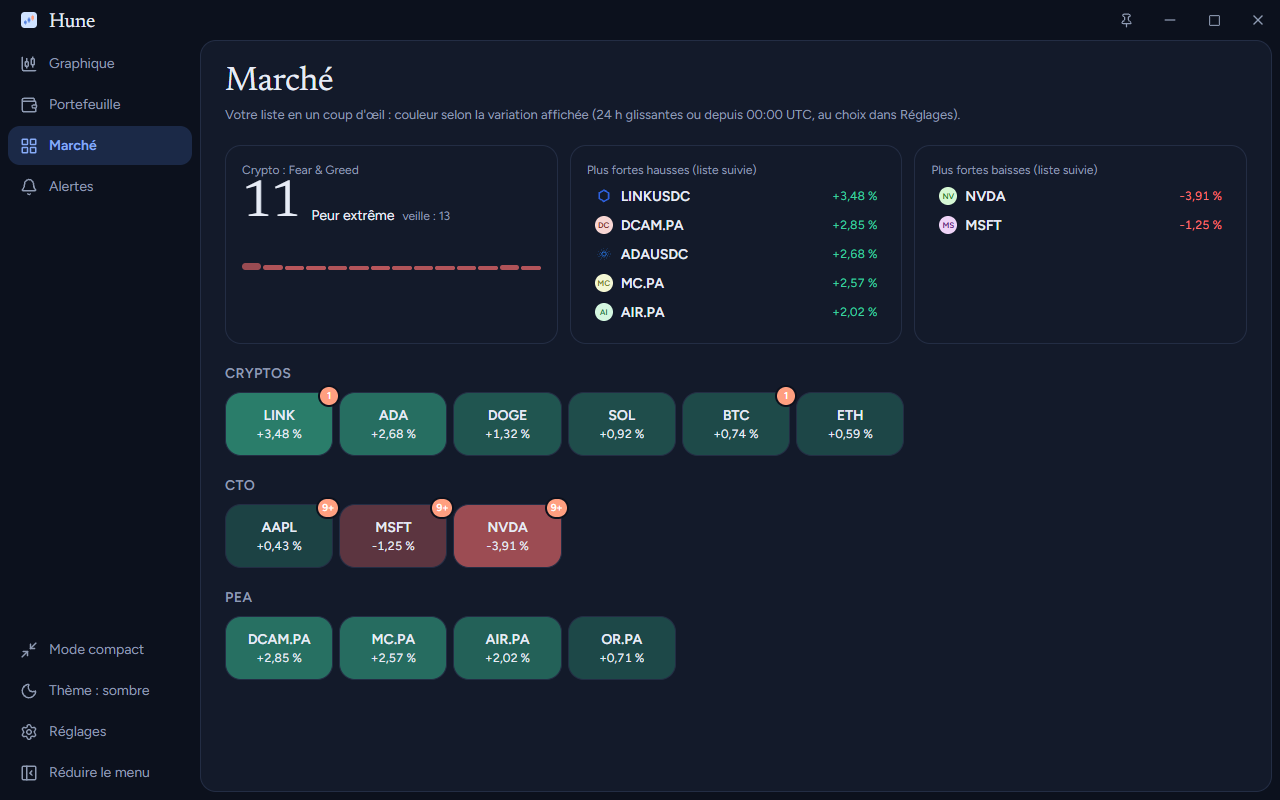
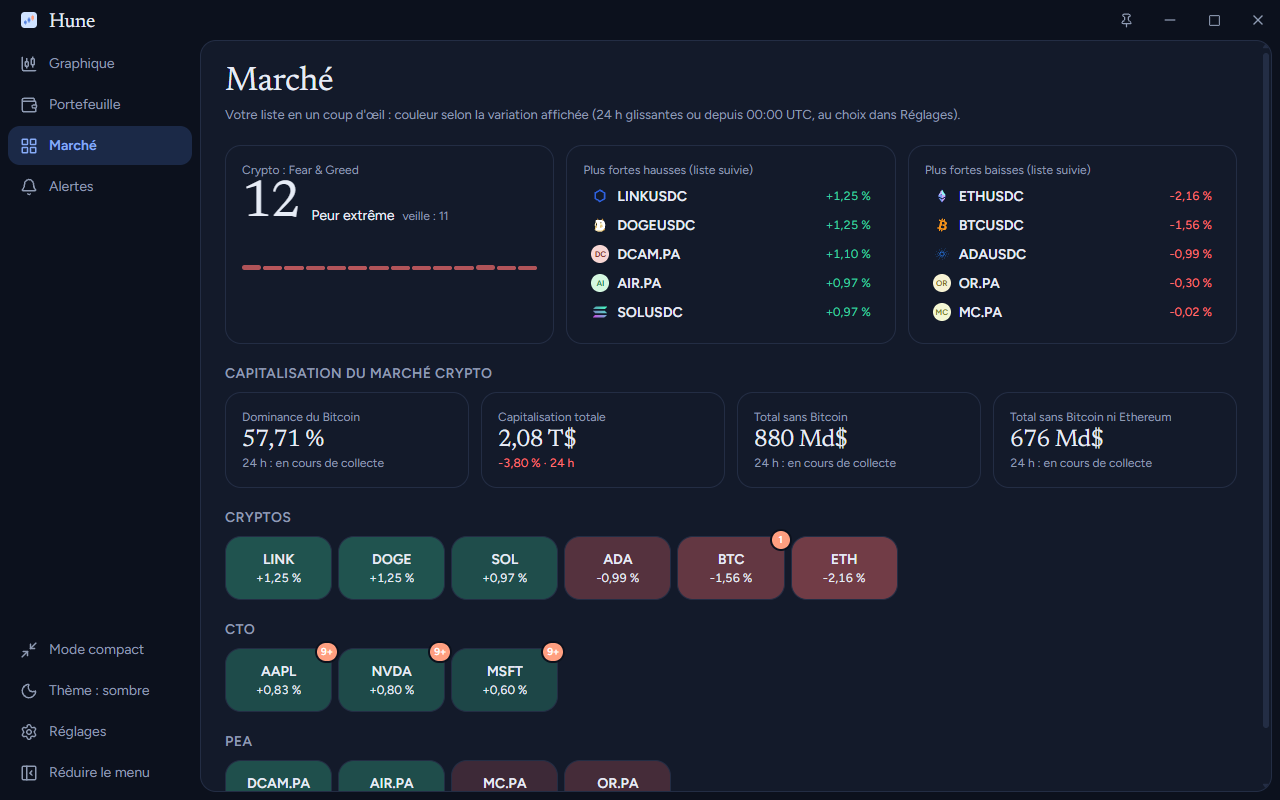
0.15.0 : capitalisation du marche crypto (dominance BTC, TOTAL, TOTAL2, TOTAL3)

diff --git a/src/capitalisation-marche.tsx b/src/capitalisation-marche.tsx
@@ -1,0 +1,103 @@
+import { useEffect, useRef, useState } from "react";
+import { ajouterPoint, ecrireHistorique, lireHistorique, valeurIlYa, type PointCapitalisation } from "./capitalisation-historique";
+import { chargerCapitalisation, type Capitalisation } from "./donnees/capitalisation";
+import { formaterPct } from "./format";
+import { MiniCourbe } from "./mini-courbe";
+
+const fr = (v: number, decimales: number) => v.toLocaleString("fr-FR", { minimumFractionDigits: decimales, maximumFractionDigits: decimales });
+
+/** Gros montant en dollars : « 2,08 T$ » (billions français) ou « 880 Md$ ». */
+export function formaterGrosMontant(v: number): string {
+  return v >= 1e12 ? `${fr(v / 1e12, 2)} T$` : `${fr(v / 1e9, v >= 1e11 ? 0 : 1)} Md$`;
+}
+
+/** Capitalisation du marché crypto, rafraîchie toutes les 5 minutes, et son historique local. */
+function useCapitalisation() {
+  const [capitalisation, setCapitalisation] = useState<Capitalisation | null>(null);
+  const [historique, setHistorique] = useState<PointCapitalisation[]>([]);
+  const [erreur, setErreur] = useState<string | null>(null);
+  const histRef = useRef<PointCapitalisation[]>([]);
+
+  useEffect(() => {
+    let actif = true;
+    void lireHistorique().then((h) => {
+      if (!actif) return;
+      histRef.current = h;
+      setHistorique(h);
+    });
+    const charger = async () => {
+      try {
+        const c = await chargerCapitalisation();
+        if (!actif) return;
+        setCapitalisation(c);
+        setErreur(null);
+        const suivant = ajouterPoint(histRef.current, c, Date.now());
+        if (suivant !== histRef.current) {
+          histRef.current = suivant;
+          setHistorique(suivant);
+          void ecrireHistorique(suivant).catch(() => undefined);
+        }
+      } catch (e) {
+        if (actif) setErreur(e instanceof Error ? e.message : String(e));
+      }
+    };
+    void charger();
+    const t = setInterval(() => void charger(), 5 * 60_000);
+    return () => {
+      actif = false;
+      clearInterval(t);
+    };
+  }, []);
+  return { capitalisation, historique, erreur };
+}
+
+interface Carte {
+  titre: string;
+  valeur: string;
+  aide: string;
+  /** Variation sur 24 h en % (ou en points pour la dominance). */
+  variation: number | null;
+  points: boolean;
+  courbe: number[];
+}
+
+/** Cartes « Capitalisation du marché crypto » de l'écran Marché : dominance du Bitcoin, total, sans Bitcoin, sans Bitcoin ni Ethereum. */
+export function CapitalisationMarche() {
+  const { capitalisation: c, historique, erreur } = useCapitalisation();
+  if (!c) return erreur ? <p className="m-0 text-xs text-doux">Capitalisation du marché crypto indisponible ({erreur}).</p> : null;
+  const maintenant = Date.now();
+  const J = 24 * 3600_000;
+  const varRel = (cle: "total" | "total2" | "total3", actuel: number) => {
+    const avant = valeurIlYa(historique, cle, maintenant, J);
+    return avant ? (actuel / avant - 1) * 100 : cle === "total" ? c.variation24h : null;
+  };
+  const dominanceAvant = valeurIlYa(historique, "dominanceBtc", maintenant, J);
+  const serie = (cle: "total" | "total2" | "total3" | "dominanceBtc") => historique.map((p) => p[cle]);
+  const cartes: Carte[] = [
+    { titre: "Dominance du Bitcoin", valeur: `${fr(c.dominanceBtc, 2)} %`, aide: "Part du Bitcoin dans la capitalisation totale des cryptos (Ethereum : " + fr(c.dominanceEth, 2) + " %). Variation en points sur 24 h.", variation: dominanceAvant != null ? c.dominanceBtc - dominanceAvant : null, points: true, courbe: serie("dominanceBtc") },
+    { titre: "Capitalisation totale", valeur: formaterGrosMontant(c.total), aide: "Valeur de toutes les cryptos réunies (TOTAL).", variation: varRel("total", c.total), points: false, courbe: serie("total") },
+    { titre: "Total sans Bitcoin", valeur: formaterGrosMontant(c.total2), aide: "Capitalisation totale moins celle du Bitcoin (TOTAL2) : Ethereum et toutes les altcoins.", variation: varRel("total2", c.total2), points: false, courbe: serie("total2") },
+    { titre: "Total sans Bitcoin ni Ethereum", valeur: formaterGrosMontant(c.total3), aide: "Capitalisation totale moins Bitcoin et Ethereum (TOTAL3) : les altcoins.", variation: varRel("total3", c.total3), points: false, courbe: serie("total3") },
+  ];
+  return (
+    <section>
+      <h2 className="m-0 mb-2 text-sm font-semibold uppercase tracking-wide text-doux" title="Source : CoinGecko (plus de 20 000 jetons). TradingView s'arrête aux 125 premiers : ses valeurs diffèrent de quelques pour cent, la tendance est la même. Les courbes et variations se construisent au fil de vos ouvertures de Hune.">
+        Capitalisation du marché crypto
+      </h2>
+      <div className="grid gap-3 md:grid-cols-4">
+        {cartes.map((k) => (
+          <div key={k.titre} className="carte-info flex items-end justify-between gap-2 p-4" title={k.aide}>
+            <div className="min-w-0">
+              <div className="truncate text-xs text-doux">{k.titre}</div>
+              <div className="titre-serif text-2xl leading-tight">{k.valeur}</div>
+              <div className={`font-mono text-xs ${k.variation == null ? "text-doux" : k.variation >= 0 ? "text-hausse" : "text-baisse"}`}>
+                {k.variation == null ? "24 h : en cours de collecte" : k.points ? `${k.variation >= 0 ? "+" : "−"}${fr(Math.abs(k.variation), 2)} pt · 24 h` : `${formaterPct(k.variation)} · 24 h`}
+              </div>
+            </div>
+            {k.courbe.length >= 3 && <MiniCourbe valeurs={k.courbe} largeur={64} hauteur={28} />}
+          </div>
+        ))}
+      </div>
+    </section>
+  );
+}

diff --git a/src/capitalisation-historique.ts b/src/capitalisation-historique.ts
@@ -1,0 +1,45 @@
+import type { Capitalisation } from "./donnees/capitalisation";
+import { ecrire, lire } from "./stockage";
+
+/**
+ * Historique local de la capitalisation, constitué au fil des ouvertures de Hune (l'API gratuite ne donne que la valeur du moment) :
+ * un point au plus tous les 15 minutes, gardé 30 jours. Il alimente les mini-courbes et les variations des cartes du Marché.
+ */
+export interface PointCapitalisation {
+  temps: number;
+  total: number;
+  dominanceBtc: number;
+  total2: number;
+  total3: number;
+}
+
+const CLE = "capitalisationHistorique";
+export const ECART_POINTS_MS = 15 * 60_000;
+export const DUREE_GARDEE_MS = 30 * 24 * 3600_000;
+
+/** Ajoute un point si le dernier date de plus de `ecartMs`, et oublie les points trop anciens. */
+export function ajouterPoint(historique: PointCapitalisation[], c: Capitalisation, maintenantMs: number, ecartMs = ECART_POINTS_MS, dureeMs = DUREE_GARDEE_MS): PointCapitalisation[] {
+  const dernier = historique[historique.length - 1];
+  const garde = historique.filter((p) => maintenantMs - p.temps <= dureeMs);
+  if (dernier && maintenantMs - dernier.temps < ecartMs) return garde.length === historique.length ? historique : garde;
+  return [...garde, { temps: maintenantMs, total: c.total, dominanceBtc: c.dominanceBtc, total2: c.total2, total3: c.total3 }];
+}
+
+/** Valeur du point le plus proche de « maintenant − ilYaMs », à condition que l'historique remonte au moins aussi loin (sinon null). */
+export function valeurIlYa(historique: PointCapitalisation[], cle: keyof Omit<PointCapitalisation, "temps">, maintenantMs: number, ilYaMs: number, tolerance = 0.2): number | null {
+  if (!historique.length) return null;
+  const cible = maintenantMs - ilYaMs;
+  if (historique[0].temps > cible + ilYaMs * tolerance) return null;
+  let meilleur = historique[0];
+  for (const p of historique) if (Math.abs(p.temps - cible) < Math.abs(meilleur.temps - cible)) meilleur = p;
+  return Math.abs(meilleur.temps - cible) <= ilYaMs * tolerance ? meilleur[cle] : null;
+}
+
+export async function lireHistorique(): Promise<PointCapitalisation[]> {
+  const brut = await lire<unknown>(CLE, []);
+  return Array.isArray(brut) ? brut.filter((p): p is PointCapitalisation => !!p && typeof p === "object" && typeof (p as PointCapitalisation).temps === "number" && typeof (p as PointCapitalisation).total === "number") : [];
+}
+
+export async function ecrireHistorique(h: PointCapitalisation[]): Promise<void> {
+  await ecrire(CLE, h);
+}

diff --git a/src/donnees/capitalisation.ts b/src/donnees/capitalisation.ts
@@ -1,0 +1,59 @@
+import { getJson } from "./http";
+import { Requeteur } from "./requeteur";
+
+/**
+ * Capitalisation du marché crypto : total, dominance du Bitcoin, total sans Bitcoin (« TOTAL2 ») et sans Bitcoin ni Ethereum (« TOTAL3 »).
+ * Source : l'API publique CoinGecko (une requête, sans clé ni compte). CoinGecko agrège plus de 20 000 jetons, alors que TradingView
+ * s'arrête aux 125 premiers : les valeurs diffèrent de quelques pour cent, la tendance est la même.
+ */
+export interface Capitalisation {
+  /** En dollars. */
+  total: number;
+  /** En % de la capitalisation totale. */
+  dominanceBtc: number;
+  dominanceEth: number;
+  total2: number;
+  total3: number;
+  /** Variation de la capitalisation totale sur 24 h, en %. */
+  variation24h: number | null;
+  /** Instant de la donnée, en ms. */
+  majLe: number;
+}
+
+interface ReponseGlobale {
+  data?: {
+    total_market_cap?: Record<string, number>;
+    market_cap_percentage?: Record<string, number>;
+    market_cap_change_percentage_24h_usd?: number;
+    updated_at?: number;
+  };
+}
+
+const nombre = (v: unknown): v is number => typeof v === "number" && Number.isFinite(v);
+
+/** Déduit TOTAL2 et TOTAL3 des parts de marché ; null si la réponse est incomplète. */
+export function calculerCapitalisation(rep: ReponseGlobale, maintenantMs = Date.now()): Capitalisation | null {
+  const d = rep.data;
+  const total = d?.total_market_cap?.usd;
+  const btc = d?.market_cap_percentage?.btc;
+  const eth = d?.market_cap_percentage?.eth;
+  if (!nombre(total) || !nombre(btc) || !nombre(eth) || total <= 0) return null;
+  return {
+    total,
+    dominanceBtc: btc,
+    dominanceEth: eth,
+    total2: total * (1 - btc / 100),
+    total3: total * (1 - (btc + eth) / 100),
+    variation24h: nombre(d?.market_cap_change_percentage_24h_usd) ? d.market_cap_change_percentage_24h_usd : null,
+    majLe: nombre(d?.updated_at) ? d.updated_at * 1000 : maintenantMs,
+  };
+}
+
+const requeteur = new Requeteur();
+
+export async function chargerCapitalisation(): Promise<Capitalisation> {
+  const rep = await requeteur.obtenir("global", 5 * 60_000, () => getJson<ReponseGlobale>("https://api.coingecko.com/api/v3/global"));
+  const c = calculerCapitalisation(rep);
+  if (!c) throw new Error("Réponse CoinGecko inattendue.");
+  return c;
+}

diff --git a/src/capitalisation-historique.test.ts b/src/capitalisation-historique.test.ts
@@ -1,0 +1,38 @@
+import { describe, expect, it } from "vitest";
+import { ajouterPoint, valeurIlYa, type PointCapitalisation } from "./capitalisation-historique";
+import type { Capitalisation } from "./donnees/capitalisation";
+import { formaterGrosMontant } from "./capitalisation-marche";
+
+const cap = (total: number): Capitalisation => ({ total, dominanceBtc: 58, dominanceEth: 10, total2: total * 0.42, total3: total * 0.32, variation24h: null, majLe: 0 });
+const H = 3600_000;
+
+describe("historique de la capitalisation", () => {
+  it("n'ajoute un point que tous les 15 minutes", () => {
+    const a = ajouterPoint([], cap(100), 0);
+    expect(a).toHaveLength(1);
+    expect(ajouterPoint(a, cap(101), 10 * 60_000)).toBe(a);
+    expect(ajouterPoint(a, cap(101), 16 * 60_000)).toHaveLength(2);
+  });
+  it("oublie les points de plus de 30 jours", () => {
+    const vieux: PointCapitalisation[] = [{ temps: 0, total: 1, dominanceBtc: 1, total2: 1, total3: 1 }];
+    const r = ajouterPoint(vieux, cap(100), 31 * 24 * H);
+    expect(r).toHaveLength(1);
+    expect(r[0].total).toBe(100);
+  });
+  it("donne la valeur d'il y a 24 h seulement si l'historique remonte assez loin", () => {
+    let h: PointCapitalisation[] = [];
+    h = ajouterPoint(h, cap(100), 0);
+    h = ajouterPoint(h, cap(110), 12 * H);
+    expect(valeurIlYa(h, "total", 12 * H, 24 * H)).toBeNull();
+    h = ajouterPoint(h, cap(120), 24 * H);
+    expect(valeurIlYa(h, "total", 24 * H, 24 * H)).toBe(100);
+  });
+});
+
+describe("formaterGrosMontant", () => {
+  it("écrit les billions et les milliards en français", () => {
+    expect(formaterGrosMontant(2.084e12).replace(/\s/g, " ")).toBe("2,08 T$");
+    expect(formaterGrosMontant(880e9).replace(/\s/g, " ")).toBe("880 Md$");
+    expect(formaterGrosMontant(36.4e9).replace(/\s/g, " ")).toBe("36,4 Md$");
+  });
+});

diff --git a/src/donnees/capitalisation.test.ts b/src/donnees/capitalisation.test.ts
@@ -1,0 +1,25 @@
+import { describe, expect, it } from "vitest";
+import { calculerCapitalisation } from "./capitalisation";
+
+const reponse = { data: { total_market_cap: { usd: 2_000_000_000_000 }, market_cap_percentage: { btc: 58, eth: 10 }, market_cap_change_percentage_24h_usd: -3.8, updated_at: 1_700_000_000 } };
+
+describe("calculerCapitalisation", () => {
+  it("déduit le total sans Bitcoin et sans Bitcoin ni Ethereum des parts de marché", () => {
+    const c = calculerCapitalisation(reponse)!;
+    expect(c.total).toBe(2_000_000_000_000);
+    expect(c.total2).toBeCloseTo(840_000_000_000, -3);
+    expect(c.total3).toBeCloseTo(640_000_000_000, -3);
+    expect(c.dominanceBtc).toBe(58);
+    expect(c.variation24h).toBe(-3.8);
+    expect(c.majLe).toBe(1_700_000_000_000);
+  });
+  it("renvoie null si la réponse est incomplète ou invalide", () => {
+    expect(calculerCapitalisation({})).toBeNull();
+    expect(calculerCapitalisation({ data: { total_market_cap: { usd: 0 }, market_cap_percentage: { btc: 50, eth: 10 } } })).toBeNull();
+    expect(calculerCapitalisation({ data: { total_market_cap: { usd: 1e12 }, market_cap_percentage: { btc: 50 } } })).toBeNull();
+  });
+  it("tolère l'absence de variation sur 24 h", () => {
+    const { market_cap_change_percentage_24h_usd: _, ...reste } = reponse.data;
+    expect(calculerCapitalisation({ data: reste })?.variation24h).toBeNull();
+  });
+});

diff --git a/src/vue-marche.tsx b/src/vue-marche.tsx
@@ -1,6 +1,7 @@
 import { useEffect, useMemo, useState } from "react";
 import type { Groupe } from "./categories";
 import { useNouvellesActualites } from "./actualites-vues";
+import { CapitalisationMarche } from "./capitalisation-marche";
 import { EnTete } from "./composants";
 import { chargerSentiment, libelleSentiment, type PointSentiment } from "./donnees/sentiment";
 import { cleActif, type Actif, type Cotation } from "./donnees/types";
@@ -92,6 +93,8 @@ export function VueMarche({ groupes, cotations, surOuvrir }: Props) {
           <ul className="m-0 list-none p-0">{variations.baisses.map(ligne)}</ul>
         </div>
       </div>
+
+      <CapitalisationMarche />
 
       {groupes
         .filter((g) => g.actifs.length)

diff --git a/README.md b/README.md
@@ -67,7 +67,7 @@ Un **graphique de l'évolution de la valeur** (24 h à tout l'historique, recons
 
 ### Vue d'ensemble du marché
 
-Une carte thermique de votre watchlist par catégorie, les plus fortes hausses et baisses du moment, et l'indice crypto *Fear & Greed*.
+Une carte thermique de votre watchlist par catégorie, les plus fortes hausses et baisses du moment, et l'indice crypto *Fear & Greed*. Sous les cartes, la **capitalisation du marché crypto** : dominance du Bitcoin, capitalisation totale, total sans Bitcoin (TOTAL2) et sans Bitcoin ni Ethereum (TOTAL3), avec variation sur 24 h (les valeurs diffèrent de quelques pour cent de celles de TradingView, qui s'arrête aux 125 premiers jetons).
 
 <p align="center">
   <picture>
@@ -125,7 +125,7 @@ Vous avez déjà vos positions dans un tableur ? Voir [`scripts/importer-excel.p
 
 ## Confidentialité et réseau
 
-Hune ne contacte que des services publics de données, **sans jamais leur envoyer d'information vous concernant** : Binance (prix crypto), Yahoo Finance (actions et devises), alternative.me (indice Fear & Greed) et GitHub (recherche de mises à jour). Les boutons **Actualités** et **CoinMarketCap / Fiche** au-dessus du graphique n'envoient rien d'eux-mêmes : ils ouvrent la page de l'actif (Yahoo Finance, CoinMarketCap, CoinGecko) dans votre navigateur, seulement quand vous cliquez, avec le symbole pour seule information. Un bouton « Actualités » rouge, avec le nombre d'articles, signale ceux de moins de 24 h que vous n'avez pas ouverts : Hune lit pour cela les titres via la recherche Yahoo Finance (actif affiché seulement). Les vrais noms des cryptos (Bitcoin, Ethereum…) sont lus une fois par jeton via la même recherche. Si vous activez la synchronisation, le fichier `hune-sync.json` est écrit dans le dossier que vous avez choisi et transporté par votre propre Drive ; Hune ne l'envoie nulle part. Vos données sont dans `%APPDATA%\io.github.nestyxx.hune\hune.json`. Détails dans [SECURITY.md](SECURITY.md).
+Hune ne contacte que des services publics de données, **sans jamais leur envoyer d'information vous concernant** : Binance (prix crypto), Yahoo Finance (actions et devises), alternative.me (indice Fear & Greed), CoinGecko (capitalisation du marché crypto) et GitHub (recherche de mises à jour). Les boutons **Actualités** et **CoinMarketCap / Fiche** au-dessus du graphique n'envoient rien d'eux-mêmes : ils ouvrent la page de l'actif (Yahoo Finance, CoinMarketCap, CoinGecko) dans votre navigateur, seulement quand vous cliquez, avec le symbole pour seule information. Un bouton « Actualités » rouge, avec le nombre d'articles, signale ceux de moins de 24 h que vous n'avez pas ouverts : Hune lit pour cela les titres via la recherche Yahoo Finance (actif affiché seulement). Les vrais noms des cryptos (Bitcoin, Ethereum…) sont lus une fois par jeton via la même recherche. Si vous activez la synchronisation, le fichier `hune-sync.json` est écrit dans le dossier que vous avez choisi et transporté par votre propre Drive ; Hune ne l'envoie nulle part. Vos données sont dans `%APPDATA%\io.github.nestyxx.hune\hune.json`. Détails dans [SECURITY.md](SECURITY.md).
 
 ## Limites à connaître
 

diff --git a/CHANGELOG.md b/CHANGELOG.md
@@ -3,6 +3,12 @@
 Toutes les évolutions notables de Hune. Format inspiré de [Keep a Changelog](https://keepachangelog.com/fr/1.1.0/) ; les versions suivent [SemVer](https://semver.org/lang/fr/).
 Le texte de chaque version sert de notes pour la release GitHub (`scripts/publier.ps1`).
 
+## [0.15.0] - 2026-11-27
+
+### Ajouté
+- **Capitalisation du marché crypto** sur l'écran Marché : dominance du Bitcoin, capitalisation totale, total sans Bitcoin (« TOTAL2 ») et total sans Bitcoin ni Ethereum (« TOTAL3 »), avec leur variation sur 24 h et une mini-courbe. Source : l'API publique CoinGecko (une requête toutes les 5 minutes, sans clé ni compte). CoinGecko compte plus de 20 000 jetons là où TradingView s'arrête aux 125 premiers : les valeurs diffèrent de 2 à 6 %, la tendance est la même (info-bulle sur le titre).
+  - L'API gratuite ne fournit que la valeur du moment : Hune construit l'historique localement, un point tous les 15 minutes (30 jours gardés). Les courbes et les variations de 24 h apparaissent donc après une journée d'utilisation ; en attendant, seule la variation de la capitalisation totale, donnée par CoinGecko, est affichée.
+
 ## [0.14.1] - 2026-11-26
 
 ### Ajouté
